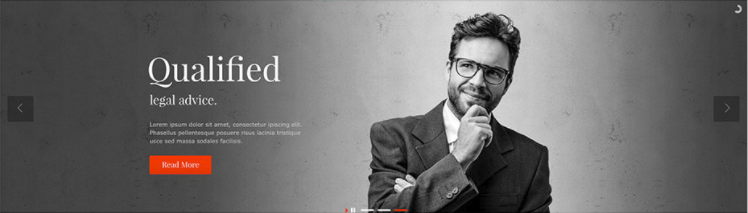
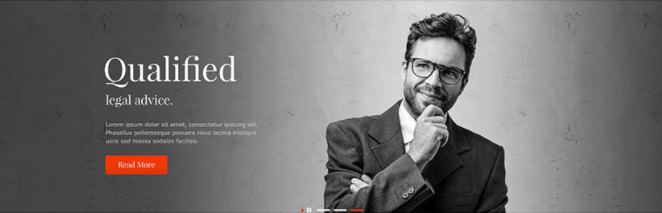
Add files via upload

diff --git a/NyttUtkast/Home.html b/NyttUtkast/Home.html
@@ -12,9 +12,10 @@
 <body>
 
 
-	<div id="navcontainer">
+	
 		<header>
-			<!--<img src="bilder/test.png" alt="logo" class="logo">--> 
+			 <img src="bilder/test2.png" alt="logo" class="logo"> 
+			 <div id="navcontainer">
 			<nav>
 				<ul>
 					<li><a class="aktiv" href="Home.html">Home</a></li>
@@ -145,10 +146,10 @@
 
 	</main>
 
-	<div id="info">
+<!--	<div id="info">
 		<h1 class=infotxt> #WiLegal </h1>
 		<p class="infotxt"> Its a site where you can get legal help ONLINE, 24/7 any day of the week.</p>
-	</div>
+	</div> -->
 
 	<footer>	
 
@@ -157,8 +158,39 @@
 			<h4 id="footertextalt"> &#169; Copyright 2018  - WiLegal</h4>
 		</div>
 
-	</footer>
 
-</body>
+		<div class="tekstbot">
+			<h2> tekst </h2>
+			<p> we are like to <br>
+				eat some fried chicken <br> 
+			and so on </p>
+		</div>
 
-</html>
+		<img src="bilder/ratus.png" alt="rate us" class="trebilder" hspace="250">
+		<img src="bilder/free.png" alt="free" class="trebilder" hspace="500">
+		<img src="bilder/qua.png" alt=qualified class="trebilder">
+		<p class="tretekst"> all our lawyers are qualified <br> and have an education </p>
+		<p class="tretekst"> Rate us after we are done, and <br> give us your opinion</p> 
+		<p class="tretekst"> Ask us a free question, and <br> get a free answer </p>
+
+	</body>
+	<footer>
+		<div class="footercont">
+			<div class="listone">
+				<h2> Quick Links </h2>
+				<li>
+					<ul>
+						<p>> home </p>
+						<p>> test1 </p>
+						<p>> test2 </p>
+					</ul>
+				</li>
+			</div>
+			<div class="listtwo">
+
+
+			</footer>
+
+		</body>
+
+		</html>

diff --git a/NyttUtkast/Css/Css-gammel.css b/NyttUtkast/Css/Css-gammel.css
@@ -146,45 +146,6 @@ nav {
   .sliderimg {
     margin-top:100px;
   }
-  .signup {
-  left: 30%;
-  top:40%;
-
-.tekstbot {
-
-  margin-left: 15%;
-
-.trebilder{
-
-margin-top:-5%;
-left:30%;
-}
-
-.tretekst {
-
-margin-top:5%;
-margin-left:30%;
-position: absolute;
-word-spacing: 90px
-}
-
-.footercont {
-
-width:100%;
-height:200px;
-top:200px;
-}
-
-.listone{
-list-style-type: none;
-color:#bababa;
-margin-left: 3%;
-}
-
-.listone h2 {
-color:#525252;
-}
-
 }
 
 /* ------------------ CSS UNDER JQUERY ---------------- */
@@ -638,42 +599,42 @@ border-radius: 3px 0 0 3px;
 
 /*-----------------------Sign up posisjonering------------*    NY */ 
 .signup {
-  /* left: 30%;
-  top:40%; */ 
+  left: 30%;
+  top:40%;
   position: absolute;
     display:block;
 }
 /*-----------------------Bilder og tekst under slider-----------------   NY */
 .tekstbot {
 
-  /* margin-left: 15%;  */
+  margin-left: 15%;
 }
 .trebilder{
   position: absolute;
 display: inline-block;
-/* margin-top:-5%;
-left:30%; */
+margin-top:-5%;
+left:30%;
 }
 .tretekst {
 display: inline-block;
-/* margin-top:5%;
+margin-top:5%;
 margin-left:30%;
 position: absolute;
-word-spacing: 90px */
-}	
+word-spacing: 90px
+}
 /*--------------------Footer---------------  NY  */
 .footercont {
 position: relative;
 background-color: #282828;
-/* width:100%;
+width:100%;
 height:200px;
-top:200px; */
+top:200px;
 }
 .listone{
 list-style-type: none;
 color:#bababa;
-/* margin-left: 3%; */
+margin-left: 3%;
 }
 .listone h2 {
-/* color:#525252;       */
+color:#525252;
 }
